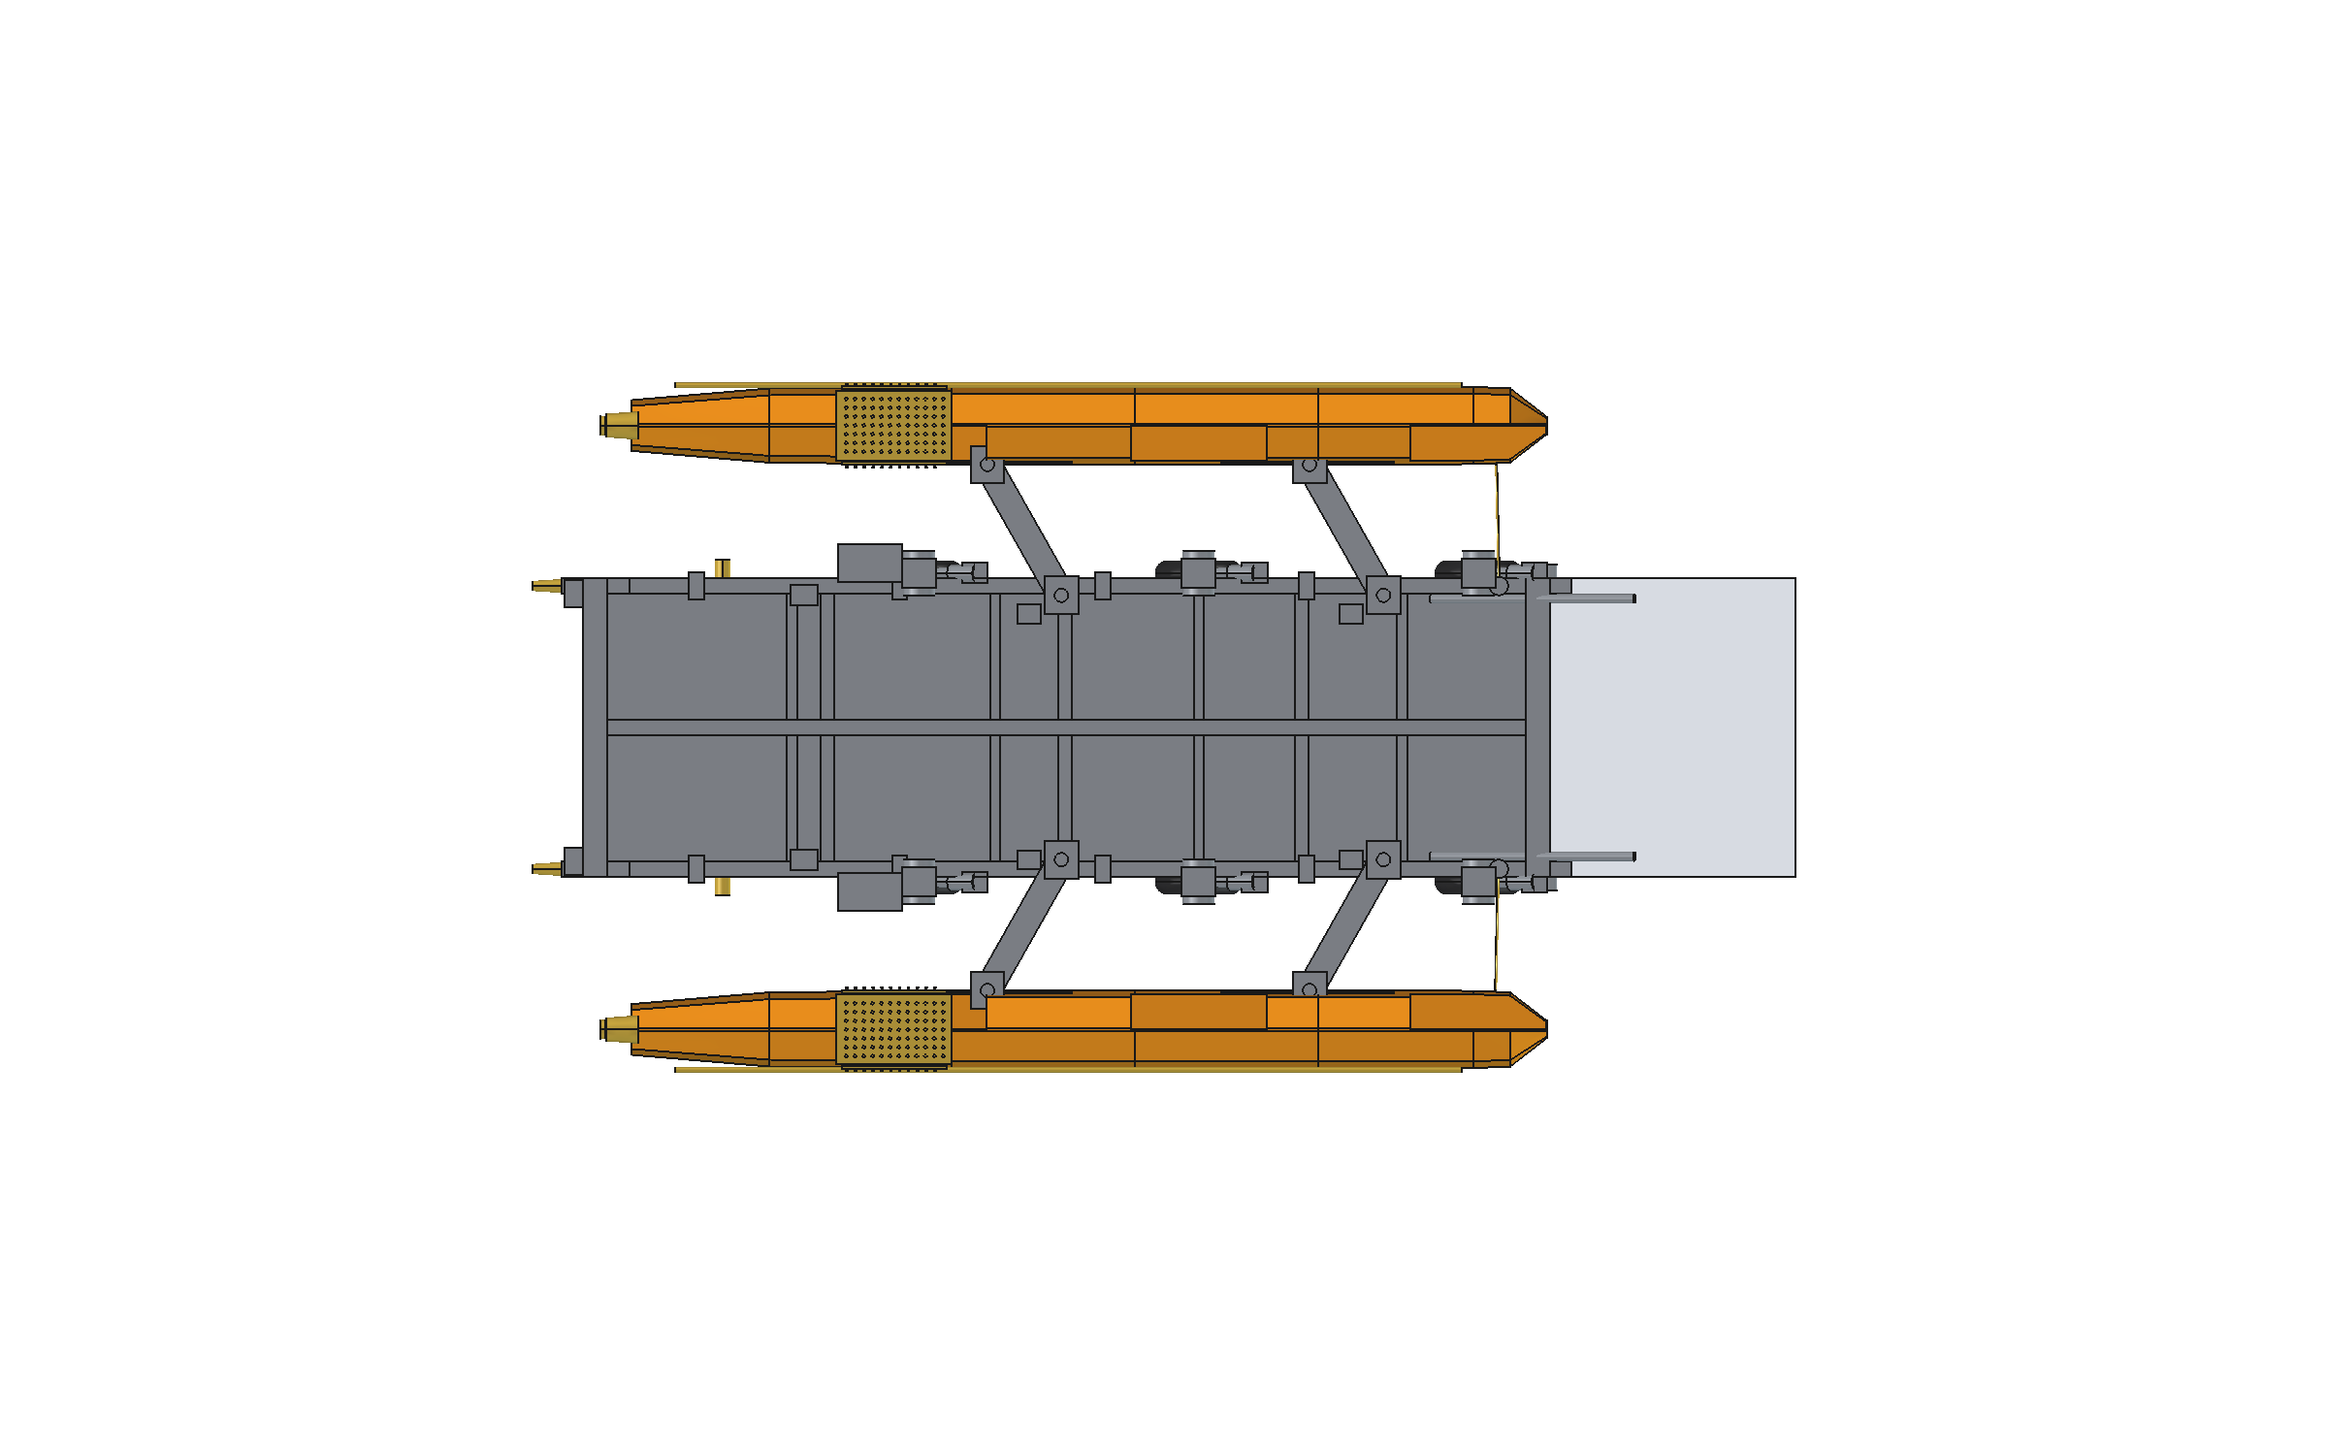
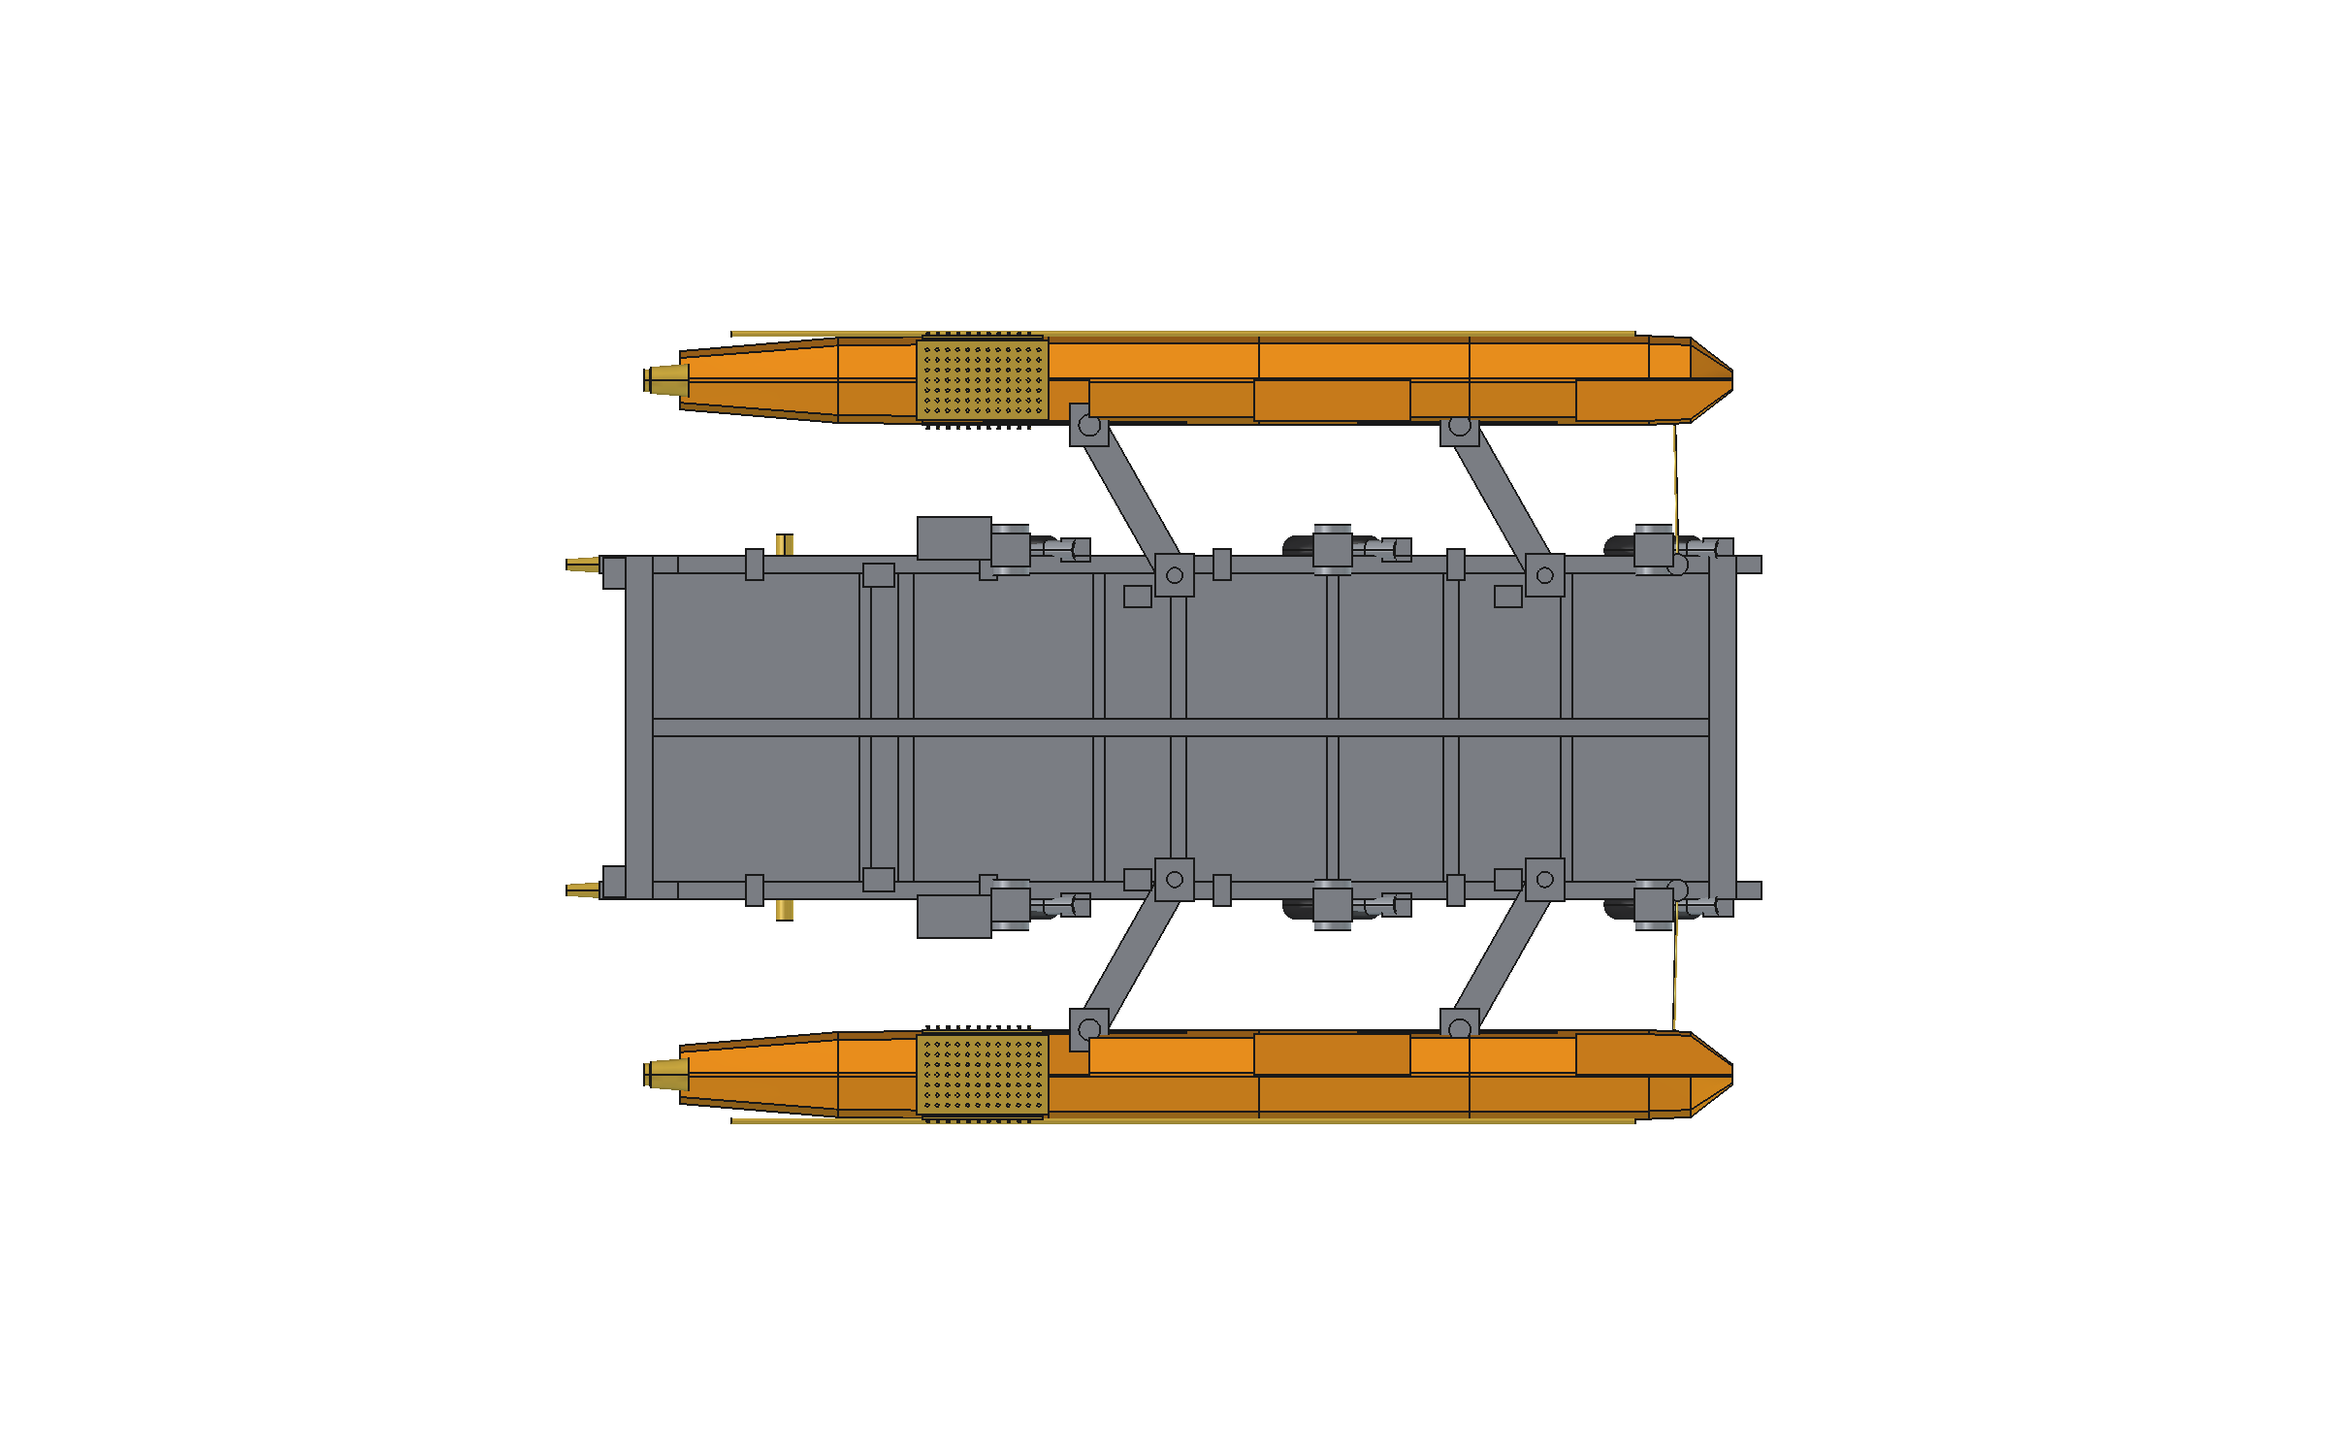
Arm jacks: screw the frame down instead of fighting the buoyancy
Third approach to docking and the first one that is actually a
mechanism rather than a manoeuvre.

A rotating electric screw goes in each V arm, between the float and
the frame.  The floats stay where the water puts them and the FRAME
moves relative to them.  700 mm of travel: 334 lines the girders up
with the boat's channel, and the full stroke puts the frame 174 mm
BELOW the waterline, so it passes under a floating boat with nothing
to catch on.

What it replaces.  Winching it down means 1703 kg of buoyancy on a
cable - 851 kg even through a 2:1 purchase - and it has to be fought
every single time.  A slipway means finding a slipway, which was the
wrong answer to a question that had already ruled it out.  The screws
do the same 334 mm, repeatably, and stop wherever they are left.

Four screws, 887 kg each with the boat aboard, since the floats carry
it through the arms and the screws are in that path.  Trapezoidal and
self-locking, so they are also the ride-height adjustment: set the
boat's attitude on the frame and it holds with no power and no pin.

56 kg, and it takes the loaded boat to 3549 - 49 kg over the O2 limit
with the battery pack aboard, 302 under with it in the car.  checks()
reports both.

Changed region(s): [[0.2188, 0.2147, 0.7812, 0.7973]]

diff --git a/freecad/params.py b/freecad/params.py
@@ -549,53 +549,50 @@ WHEEL_Y = 910                      # wheel centreline: the pocket eats
 # The wheels do not move. The arm pivot stays at z 445 on a bracket
 # that drops off the girder, so the axle still travels 0 -> 890 and
 # the wing box is unchanged.
-# ---- THE STERN DOCKING RAMP ----
-# There is no slipway in the plan. The hangar is winched in from
-# astern, under the hull, and the boat's own channel does the lifting.
+# ---- THE ARM JACKS: the frame's height is adjustable ----
+# Second approach to docking, and much better than the first two.
 #
-# Afloat the hangar's girders sit 334 mm HIGHER above the water than
-# the boat's channel does, so something has to push it down. Straight
-# down that is 1.70 t of buoyancy - a serious winch. Up a RAMP it is
-# only the slope that has to be beaten: over 3000 mm the channel falls
-# 334 mm, 6.4 deg, and the pull drops to about 190 kg plus friction.
-# That is the entire reason for the ramp.
+# The problem was never geometry, it was that the hangar floats 334 mm
+# higher above the water than the boat's channel does, so the two never
+# line up. Winching it down means fighting 1703 kg of buoyancy on a
+# cable. A slipway means finding a slipway.
 #
-# A ramp in the hull was drawn twice and thrown away both times. At
-# full 334 mm it cuts the channel up to z 1134 at the transom. At 120
-# it does nothing at all: the hull volume came out identical with the
-# cut and without it, because THE CHANNEL IS ALREADY OPEN AT THE
-# TRANSOM - the hangar's entry is a clear mouth, there is nothing to
-# flare. So the 334 mm is taken by the winch, through a 2:1 purchase:
+# Instead: put a ROTATING ELECTRIC SCREW in each V arm, between the
+# float and the frame. The floats stay where the water puts them and
+# the FRAME slides up and down relative to them. Wind the screws out
+# and the frame goes down; wind them in and it comes back up.
 #
-#   straight pull   1701 kg   - too much for the 2 t winch to be happy
-#   2:1 purchase     851 kg   - comfortable, one extra block
+#   334 mm  channel and girders line up - dock at this setting
+#   526 mm  girder bottom is ON the hangar's own waterline
+#   700 mm  frame is 174 mm BELOW the water: it passes under a
+#           floating boat with nothing to catch on
 #
-# The cable leads from the hangar's bight, forward under the hull to a
-# turning block on the keel shoe, and back up to the 2 t recovery winch
-# already on the stern gantry. Slack it off and the hangar's own
-# buoyancy walks it back out.
-DOCK_ENTRY_MISMATCH = 334          # how much higher the hangar floats
-DOCK_WINCH_PULL_KG = 851           # 1701 kg of buoyancy through a
-                                   # 2:1 purchase. NOTE the winch at
-                                   # the stern arch is a separate thing
-                                   # and already owns WINCH_PULL_KG -
-                                   # this name is prefixed on purpose,
-                                   # a bare WINCH_* would be silently
-                                   # overwritten by it further down.
-DOCK_CABLE_D = 8                   # mm steel, ~4 t breaking
-DOCK_PURCHASE = 2                  # blocks in the tackle
-DOCK_WINCH_KG = 11                 # two blocks, cable and fairlead,
-                                   # nothing more: the 2 t stern winch
-                                   # already on the gantry does the
-                                   # pulling, and 400 kg against its
-                                   # 2000 kg rating is not a stretch.
-                                   # A second winch would have been
-                                   # 26 kg on a boat with no margin.
+# The screws are in the load path once the boat is aboard - the floats
+# carry it through the arms - so each takes about 876 kg. Trapezoidal
+# and self-locking, which also makes them the ride-height adjustment:
+# set the boat's attitude on the frame and it stays there with no
+# power and no pin.
+ARM_JACK_STROKE = 700              # mm of frame travel
+ARM_JACK_DOCK = 334                # the setting that lines the channel up
+ARM_JACK_TUBE_D = 110              # outer, 6082-T6
+ARM_JACK_SCREW = 40                # Tr40 trapezoidal, self-locking
+ARM_JACK_KG = 14                   # tube, screw, nut, 24 V gearmotor
 
 
-def dock_ramp_deg():
-    import math as _m
-    return _m.degrees(_m.atan2(DOCK_RAMP_RISE, DOCK_RAMP_L))
+def arm_jack_load_kg():
+    """kg on ONE jack with the floats carrying the whole boat."""
+    _items, empty = mass_budget()
+    return (empty + CREW_STORES) / (2 * len(ARM_XS))
+
+
+def arm_jacks_mass():
+    return 2 * len(ARM_XS) * ARM_JACK_KG
+
+
+def frame_drop(setting="up"):
+    """mm the frame is lowered relative to the floats."""
+    return {"up": 0.0, "dock": ARM_JACK_DOCK,
+            "under": float(ARM_JACK_STROKE)}.get(setting, 0.0)
 
 
 GIRDER_Z0 = T_STEP_Z               # channel floor: the wing underside
@@ -1236,7 +1233,7 @@ VCG = {
     "front dome glazing": 2000,
     "waterjets": 150,                          # in the float bottoms
     "keel shoe (alu)": 0,                      # flat on the keel, z 0
-    "dock sheave + fairlead": 200,             # low on the transom
+    "arm jacks": 450,                          # in the V arms
 }
 CREW_VCG = 1500               # people stand on the sole at z 620
 
@@ -1802,7 +1799,7 @@ def mass_budget():
     items["HANGAR, complete vehicle"] = hangar_mass()
     items["waterjets"] = MASS_JETS
     items["keel shoe (alu)"] = shoe_mass()
-    items["dock sheave + fairlead"] = DOCK_WINCH_KG
+    items["arm jacks"] = arm_jacks_mass()
     items["electrics"] = MASS_ELECTRICS
     items["solar curtains"] = curtain_mass()
     items["interior (incl. 50 kWh, water)"] = sum(INT_MASS.values())
@@ -2388,14 +2385,16 @@ def checks(verbose=True, strict=True):
         _sink = (hangar_mass() + 170) / 1.025 / (2 * FLOAT_LEN * FLOAT_W / 1e6)
         _wlh = (POD_DOCKED[1] - FLOAT_H / 2) + _sink
         _gap = (T_STEP_Z - _wlh) - (T_STEP_Z - _wlb)
-        print(f"docking         WINCHED IN AFLOAT, no slipway needed. The "
-              f"boat's channel sits {T_STEP_Z - _wlb:.0f} mm over the water "
-              f"and the hangar's girders {T_STEP_Z - _wlh:.0f} mm over its "
-              f"own, so the hangar floats {_gap:.0f} mm too high: "
-              f"{_gap / 1000 * 2 * FLOAT_LEN * FLOAT_W / 1e6 * 1025:.0f} kg "
-              f"of buoyancy to pull down, {DOCK_WINCH_PULL_KG} kg on the "
-              f"cable through a {DOCK_PURCHASE}:1 purchase, against the "
-              f"{WINCH_PULL_KG} kg stern winch. Slack it and it walks out")
+        print(f"docking         ARM JACKS, afloat, no slipway. The boat's "
+              f"channel sits {T_STEP_Z - _wlb:.0f} mm over the water and the "
+              f"hangar's girders {T_STEP_Z - _wlh:.0f} mm over its own, so "
+              f"the frame must come down {_gap:.0f} mm. "
+              f"{2 * len(ARM_XS)} screws in the V arms, {ARM_JACK_STROKE} mm "
+              f"of travel: {ARM_JACK_DOCK} to line up, {ARM_JACK_STROKE} to "
+              f"put the frame {ARM_JACK_STROKE - (T_STEP_Z - _wlh):.0f} mm "
+              f"UNDER the water. {arm_jack_load_kg():.0f} kg a screw with "
+              f"the boat aboard, self-locking, so they set the ride height "
+              f"too")
         print(f"nesting         floats 0..{FLOAT_LEN} in a {RECESS_DEPTH} mm "
               f"bilge recess; bow solid {LOA - FLOAT_LEN - 200} mm ahead; "
               f"2 spike rails/side, taper {SPIKE_TAPER}")

diff --git a/freecad/build_boat.py b/freecad/build_boat.py
@@ -727,6 +727,23 @@ def build_hangar(phi, coupled=True, tow="sea"):
             arm.Placement = Placement(
                 Vector(px, py, 0), Rotation(Vector(0, 0, 1), sy * yawd))
             parts.append(arm)
+            # THE ARM JACK at the float end: a rotating electric screw
+            # between the float and the frame. The floats stay where
+            # the water puts them; winding these drives the FRAME down,
+            # 334 mm to line the channel up for docking and 700 to put
+            # it under the water entirely. Self-locking, so it doubles
+            # as the ride-height setting once the boat is aboard.
+            parts.append(Part.makeCylinder(
+                P.ARM_JACK_TUBE_D / 2, P.ARM_JACK_STROKE * 0.55,
+                Vector(tx, ty, P.BEAM_Z0 + P.BEAM_H / 2),
+                Vector(0, 0, -1)))
+            parts.append(Part.makeCylinder(
+                P.ARM_JACK_SCREW / 2, P.ARM_JACK_STROKE * 0.5,
+                Vector(tx, ty, P.BEAM_Z0 + P.BEAM_H / 2 + 40),
+                Vector(0, 0, 1)))
+            parts.append(box(150, 150, 110,
+                             (tx - 75, ty - 75,
+                              P.BEAM_Z0 + P.BEAM_H / 2 + 40)))
             for (qx, qy) in ((px, py), (tx, ty)):     # the two pins
                 parts.append(Part.makeCylinder(
                     P.HINGE_PIN_D / 2, P.BEAM_H + 200,

diff --git a/docs/hangar.md b/docs/hangar.md
@@ -33,39 +33,43 @@ FRONT VIEW                DOCKED                    EXTENDED (sea)
 | Extended | **771 mm** out on the V arms — GM 1.20 → 4.59 m, peak righting 3.8 → 14.8 kNm |
 | Dinghy | both floats + bight: 6.1 m beam, 216 mm freeboard with two aboard |
 
-## 2. Docking — winched in afloat, no slipway
+## 2. Docking — screw the frame down, afloat
 
-There is no slipway in the plan, so the hangar docks **in the water**.
-It is pulled in from astern, under the hull, on a steel cable to the
-2 t recovery winch already on the stern gantry.
+No slipway, no winching against buoyancy. **A rotating electric screw
+sits in each V arm, between the float and the frame.** The floats stay
+where the water puts them; the screws drive the **frame** up and down
+relative to them.
 
-**What has to be overcome.** Afloat, the boat's channel sits **192 mm**
-above the water and the hangar's girders sit **526 mm** above its own.
-The hangar therefore floats **334 mm too high** to slide in, and that
-gap is buoyancy: **1 703 kg** of it.
+| Setting | Frame drop | What it is for |
+|---|---|---|
+| up | 0 | towing, and carrying the boat |
+| **dock** | **334 mm** | channel and girders line up exactly |
+| under | 700 mm | frame **174 mm below the water** — it passes under a floating boat with nothing to catch |
 
-| | |
-|---|---|
-| Straight pull | 1 703 kg — more than the 2 t winch should be asked for |
-| **Through a 2:1 purchase** | **851 kg** — comfortable, one extra block |
+**Why this and not the two attempts before it.** Afloat the boat's
+channel sits **188 mm** above the water and the hangar's girders
+**526 mm** above its own, so the frame has to come down **334 mm**.
 
-The cable leads from the hangar's bight, forward under the hull to a
-turning block on the keel shoe, and back up to the winch. Wind it in
-and the hangar is drawn forward and down until the girders enter their
-channels; the tapered noses and the last 300 mm of rail do the fine
-alignment, and the bayonet locks pin it. **Slack the cable off and its
-own buoyancy walks it back out** — launching needs no power at all.
+- *Winch it down:* 1 703 kg of buoyancy on a cable, 851 kg even through
+  a 2:1 purchase. Doable, but it fights the boat every time.
+- *Slipway:* needs a slipway. There isn't one in the plan.
+- *Screws:* the same 334 mm, wound in, repeatable, and it stops
+  wherever you leave it.
 
-**No ramp is cut in the hull, and two attempts proved why.** At the
-full 334 mm the channel has to be cut up to z 1 134 at the transom,
-which takes the stern bottom with it. At 120 mm the hull volume came
-out **identical with the cut and without it** — because the channel is
-already an open mouth at the transom. There was never anything to
-flare.
+**4 screws, 700 mm of travel, 887 kg each** with the boat aboard —
+the floats carry it through the arms, so the screws are in that load
+path. Trapezoidal and self-locking, which makes them the **ride-height
+adjustment** as well: set the boat's attitude on the frame and it stays
+there with no power and no pin.
 
-**The wheels stay dry throughout**: retracted, the tyre bottom is at
-z 629, **222 mm above the boat's waterline** and **555 mm above the
-hangar's own** when it floats detached.
+**No ramp is cut in the hull**, and two attempts proved why: at the
+full 334 mm the channel has to be cut up to z 1 134 at the transom and
+takes the stern bottom with it; at 120 mm the hull volume came out
+*identical* with the cut and without it, because the channel is already
+an open mouth at the transom. There was never anything to flare.
+
+**The wheels stay dry throughout** — retracted, the tyre bottom is
+222 mm above the boat's waterline and 555 mm above the hangar's own.
 
 ## 3. Extenders
 
